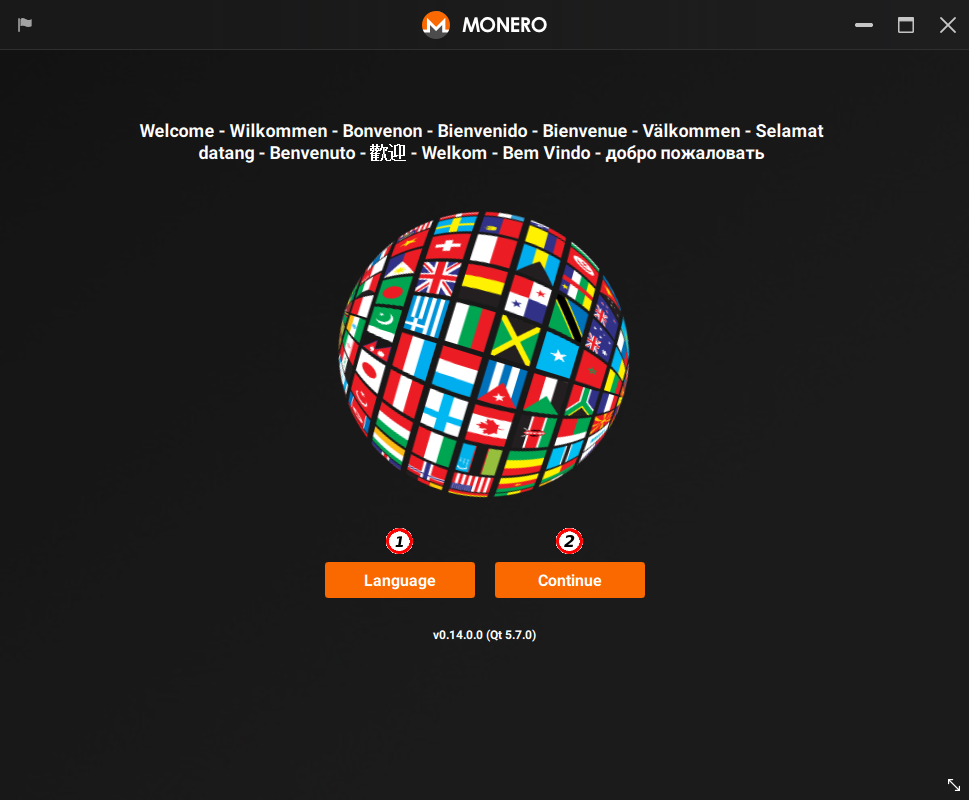
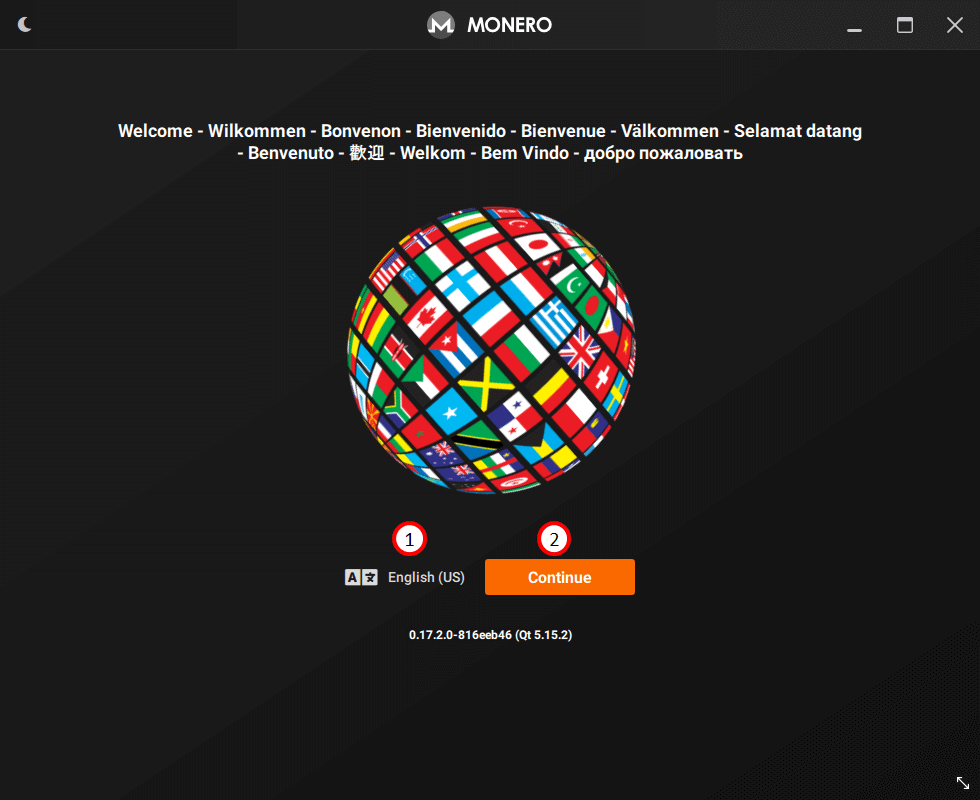
ch01: fix language/welcome page (#211)
* ch01: fix language/welcome page

* Add files via upload

* Add files via upload

diff --git a/en/ch01.md b/en/ch01.md
@@ -6,7 +6,7 @@ Extract the package and click on `monero-wallet-gui`. The following window shoul
 
 Welcome to Monero GUI Wallet.
 
-(1) **Language:** Click here to open a list of available languages. Select your desired language from the list.  
+(1) **Language symbol/English (US):** Click here to open a list of available languages. Select your desired language from the list.  
 (2) **Continue:** Click here to continue to the next screen.  
 
 If Monero GUI isn't displaying graphics correctly, you can try starting it in low graphics mode. If you're using Windows, please open `start-low-graphics-mode.bat` file located in your Monero GUI folder. You can find it in `C:\Program Files\Monero GUI Wallet` or you can find a shortcut for it in `Start Menu > Monero GUI Wallet > Utilities`. If you're using Linux, please try using the command `QMLSCENE_DEVICE=softwarecontext ./monero-wallet-gui`. Most macOS users shouldn't have graphic problems with Monero GUI, since it comes with OpenGL installed.
@@ -14,10 +14,8 @@ If Monero GUI isn't displaying graphics correctly, you can try starting it in lo
 ## Choose a Language
 ![Language](media/wizard_1-lang.png)
 
-You'll see a list of available languages, click on the one of your choice to change it and continue from the welcome screen.
-*Note:* You will be able to change the language later by clicking on the *flag* in the upper-left corner.
-
-(1) **Close:** Cancel and return to the previous screen.
+Click on the language symbol or English (US) to display a list of available languages. Click on the one of your choice.
+*Note:* You can always change the language later by clicking on the *globe* icon on the toolbar (upper-left corner).
 
 ## Choose wallet mode
 ![mode](media/wizard_1_1-mode.png)
